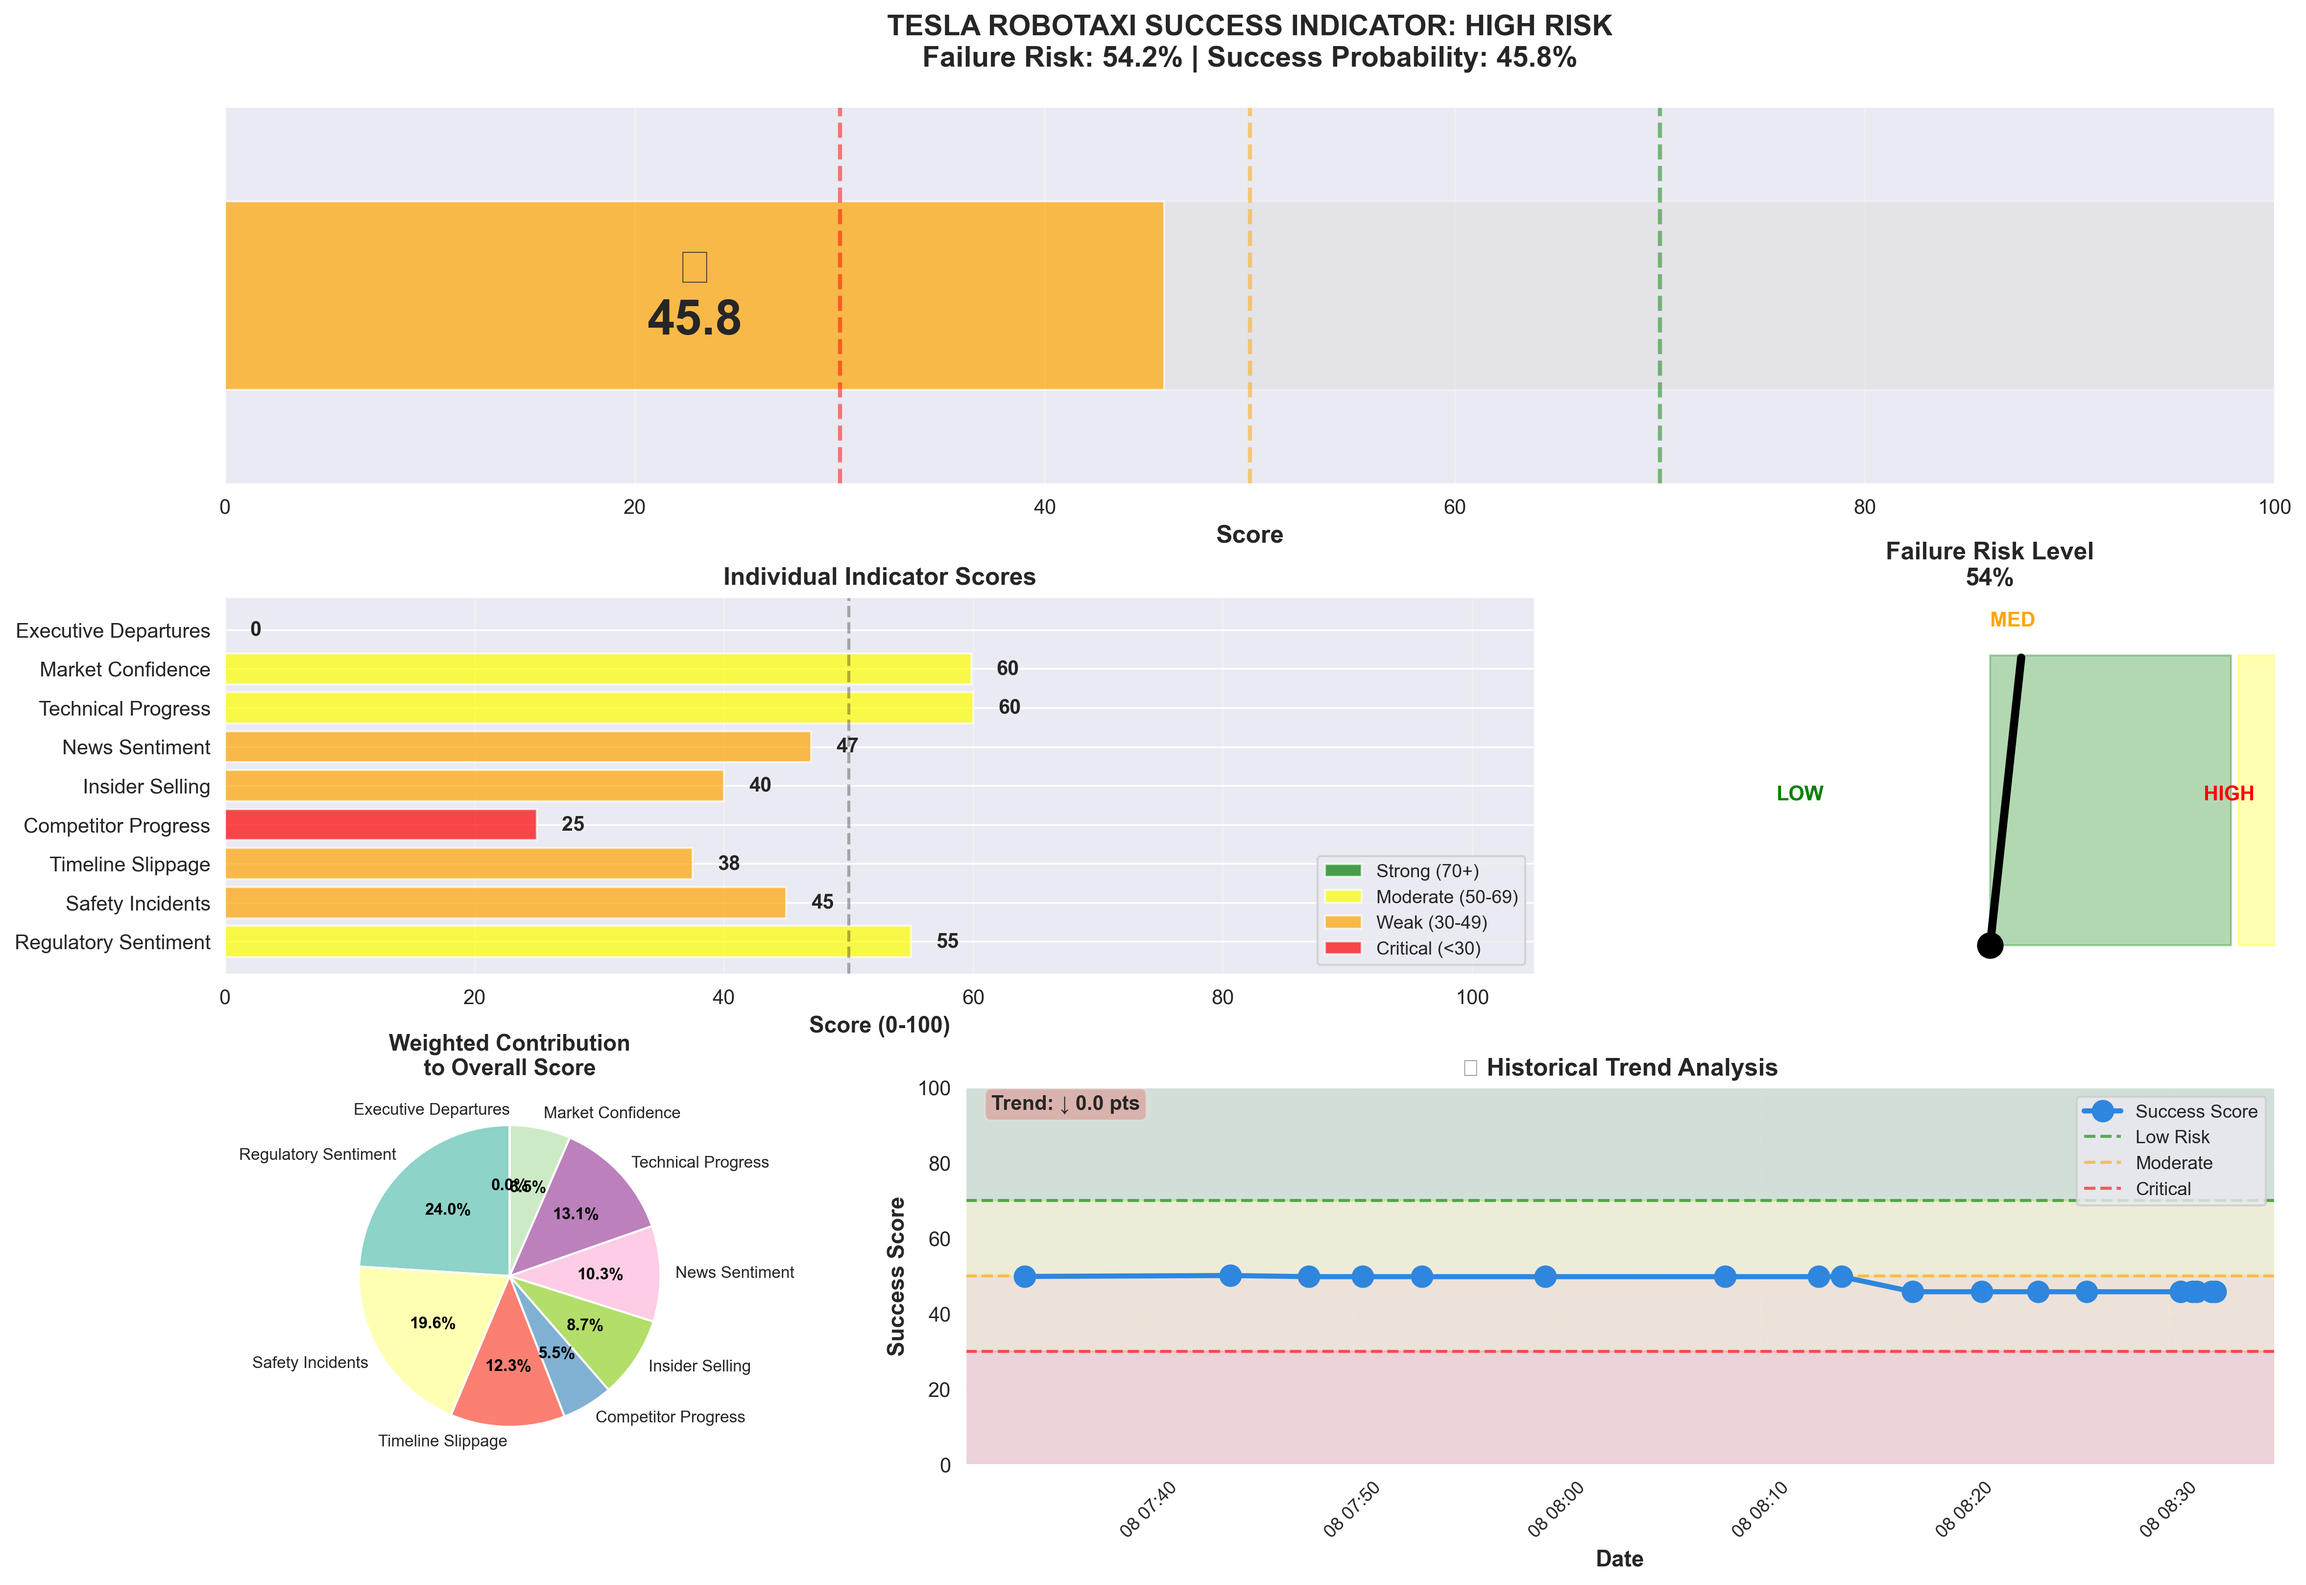
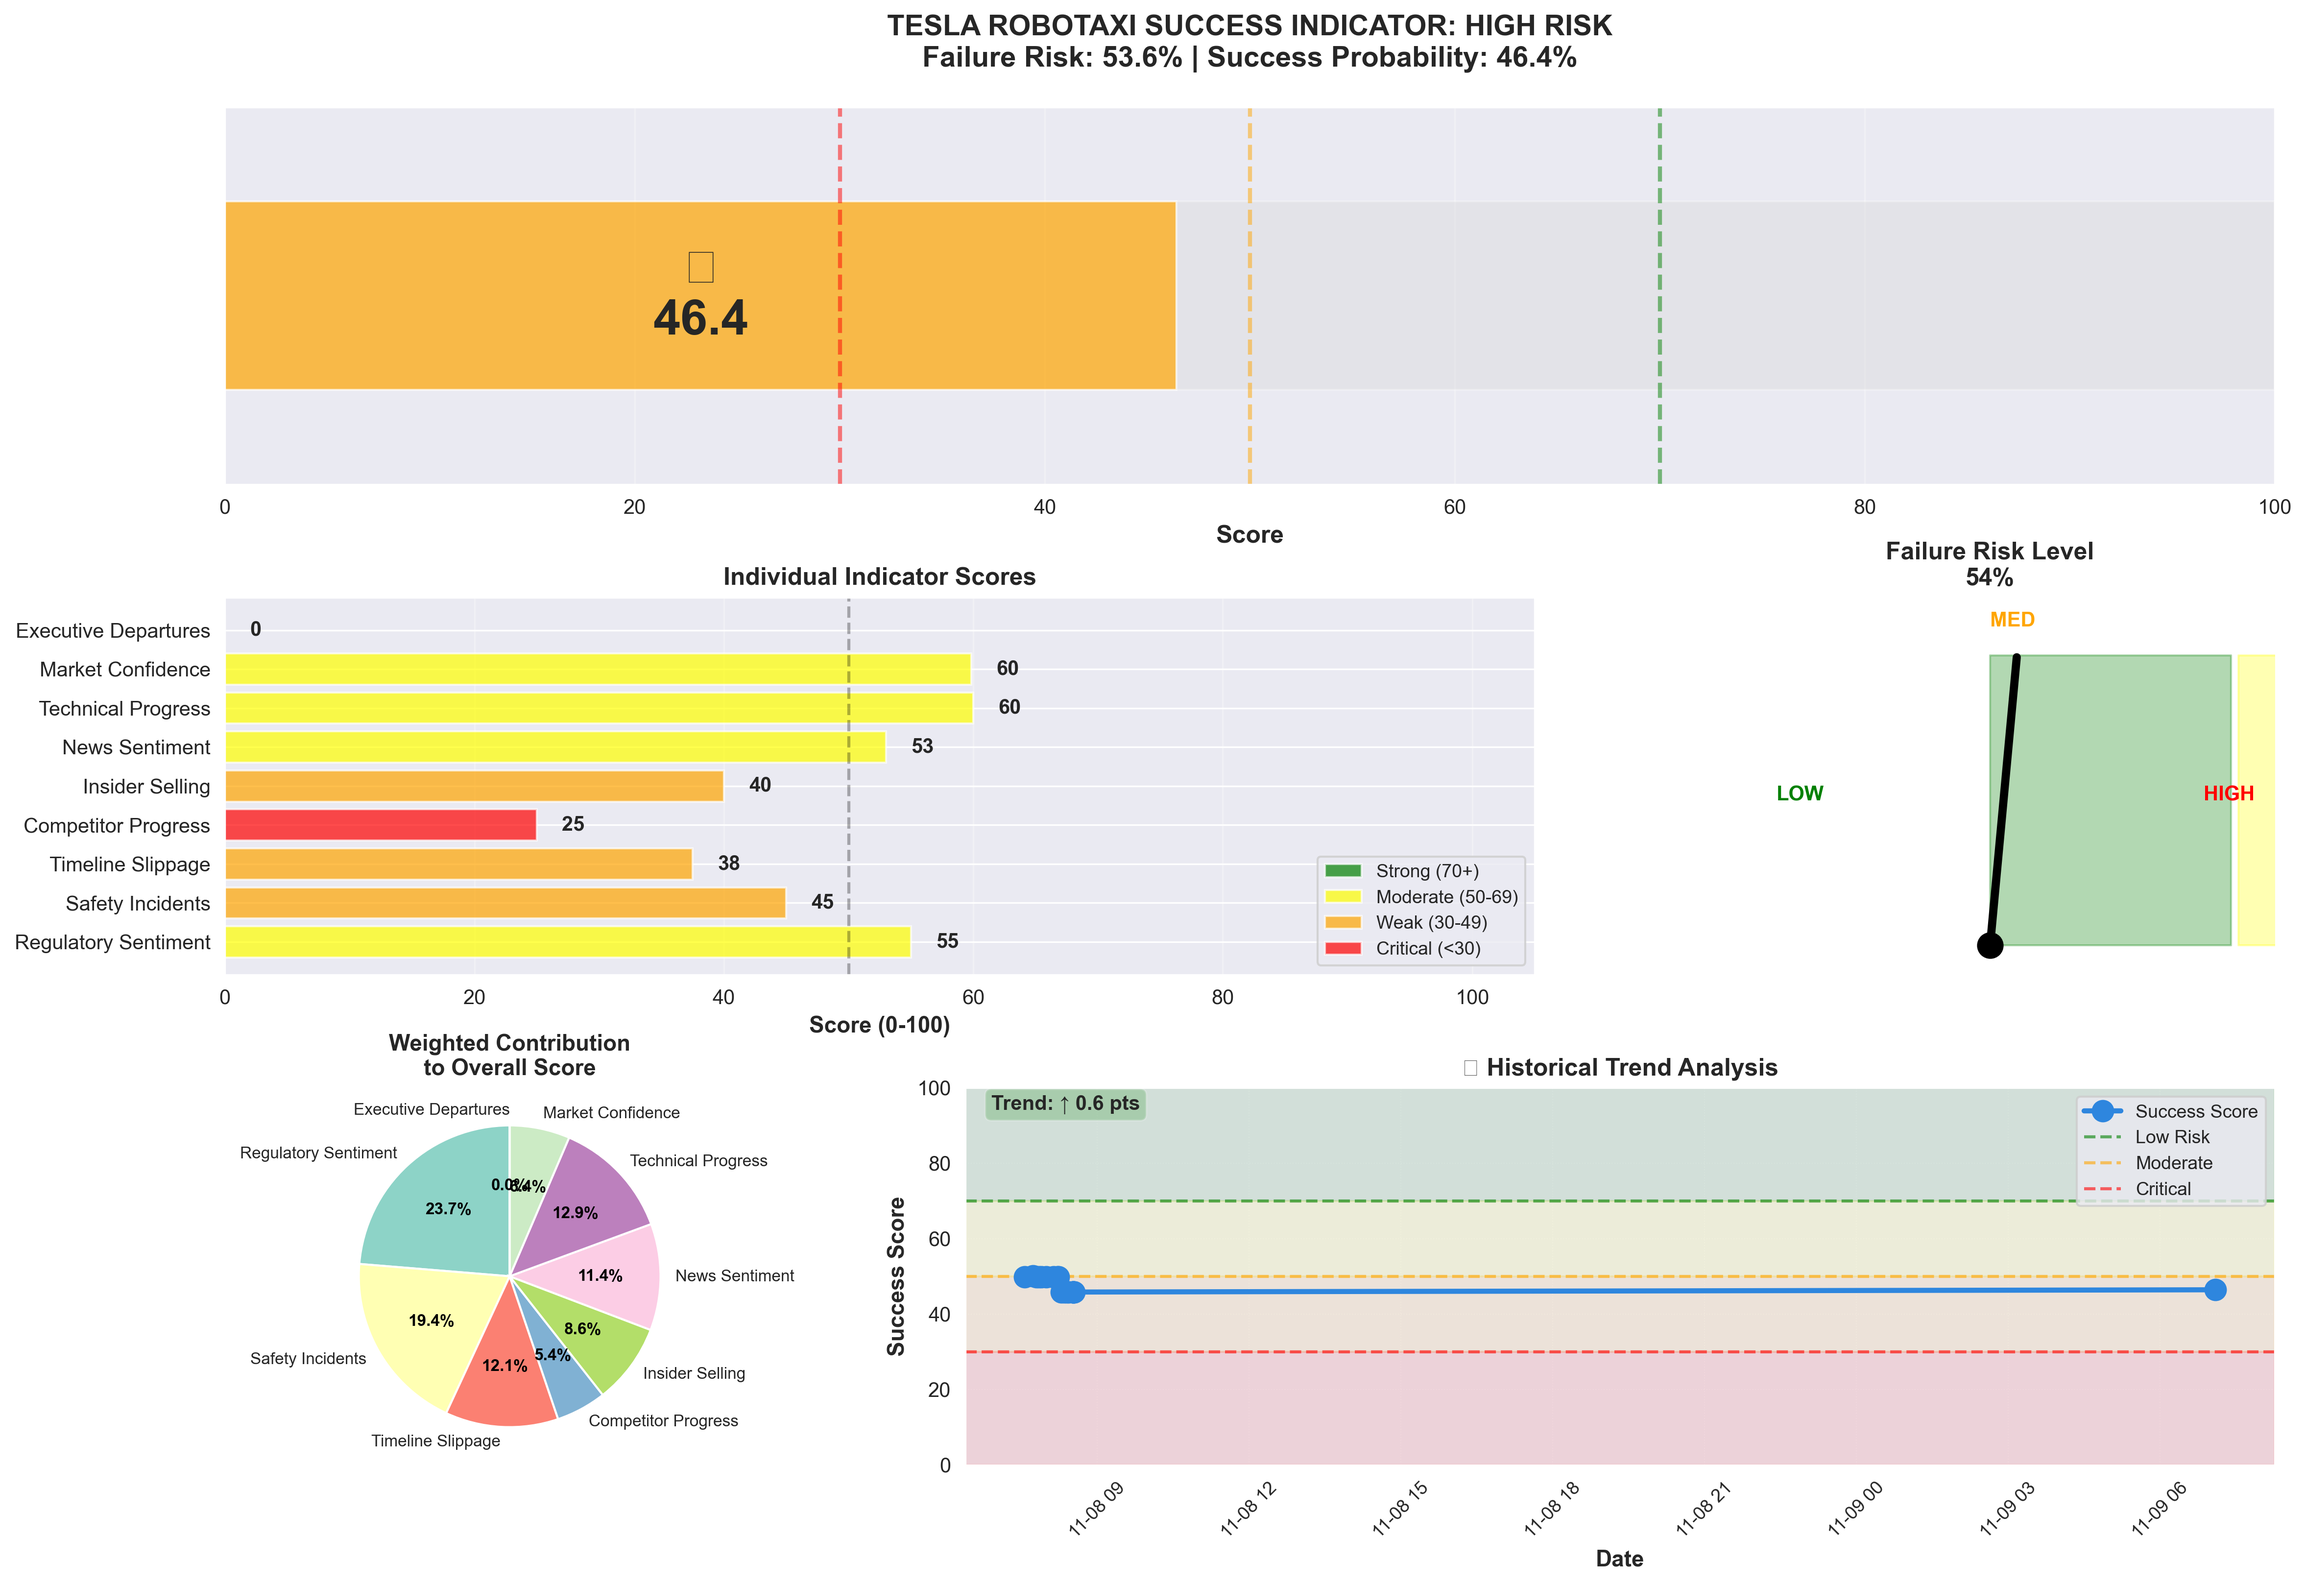
Update monitoring data and README - 2025-11-09 07:05
- Updated monitoring output with latest data
- Refreshed README with current risk scores
- Failure risk: 53.6%
- Dashboard and reports regenerated

[Automated update via update_and_push.py]

diff --git a/output/tesla_robotaxi_dashboard.html b/output/tesla_robotaxi_dashboard.html
@@ -409,14 +409,14 @@
         <div class="header">
             <h1>🚗 Tesla Robotaxi Monitor</h1>
             <div class="subtitle">Risk Assessment Dashboard - Powered by Real-Time Data</div>
-            <div class="timestamp">Generated: 2025-11-08 08:32:16</div>
+            <div class="timestamp">Generated: 2025-11-09 07:05:20</div>
         </div>
         
         <div class="risk-overview">
             <div class="risk-score">
                 <div class="score-item">
                     <div class="label">Success Probability</div>
-                    <div class="value">45.8%</div>
+                    <div class="value">46.4%</div>
                 </div>
                 <div class="score-item">
                     <div class="label">Status</div>
@@ -424,7 +424,7 @@
                 </div>
                 <div class="score-item">
                     <div class="label">Failure Risk</div>
-                    <div class="value">54.2%</div>
+                    <div class="value">53.6%</div>
                 </div>
             </div>
             <div class="recommendation">
@@ -524,7 +524,7 @@
         
         
         NEWS MONITORING (Last 30 days):
-        • Safety/crash article mentions: 3
+        • Safety/crash article mentions: 2
         • Monitoring status: LOW
         
         Score: 45/100 (Below 60 suggests serious problems)
@@ -642,7 +642,7 @@
         • SEC Form 4 filings (last 90 days): 5
         • Activity level: LOW
         • Source: SEC Edgar API
-        • Last check: 2025-11-08T08:32:14.760750
+        • Last check: 2025-11-09T07:05:18.072291
         
         BACKGROUND:
         • Elon Musk: $10B+ in stock sales (reported)
@@ -663,12 +663,12 @@
                         <span class="badge">LIVE DATA</span>
                     </div>
                     <div class="indicator-score">
-                        <span class="score-value">47</span>
+                        <span class="score-value">53</span>
                         <span class="score-max">/100</span>
                         <span class="weight">Weight: 10%</span>
                     </div>
                     <div class="progress-bar">
-                        <div class="progress-fill" style="width: 47.0%; background-color: #ff8c00;"></div>
+                        <div class="progress-fill" style="width: 53.0%; background-color: #ffc107;"></div>
                     </div>
                     <div class="indicator-details">
                         <pre>
@@ -676,15 +676,15 @@
         
         • Total articles analyzed: 100
         • Sentiment: NEUTRAL
-        • Raw sentiment score: -2
+        • Raw sentiment score: 2
         
         Recent headlines:
         
         1. Musk wants to get rid of Tesla’s robotaxi babysitters ‘by the end of the year’
-        2. Tesla is facing an investigation over Full Self-Driving traffic violations
-        3. Nvidia and Uber Say They’re Building a 100,000-Vehicle Robotaxi Network
+        2. Nvidia and Uber Say They’re Building a 100,000-Vehicle Robotaxi Network
+        3. Uber CEO says all cars will be autonomous in 20 years. Driving will be 'something like horseback riding.'
         
-        Sentiment Score: 47/100 (Based on real news data)
+        Sentiment Score: 53/100 (Based on real news data)
         </pre>
                     </div>
                 </div>

diff --git a/README.md b/README.md
@@ -15,26 +15,26 @@ Outputs (saved to `output/` directory):
 - `tesla_robotaxi_report.txt` - Detailed report
 - `tesla_robotaxi_history.json` - Historical tracking data
 
-## Current Assessment: **54.2% Failure Risk** ⚠
+## Current Assessment: **53.6% Failure Risk** ⚠
 
 ### Key Red Flags:
-- **Competitor Progress: 25/100** 🚨 Tesla 5+ years behind (REAL DATA)
+- **Executive Departures: 0.0/100** ⚠
+- **Competitor Progress: 25.0/100** 🚨 Tesla 5+ years behind (REAL DATA)
 - **Timeline Slippage: 37.5/100** 🚨 10 years of missed promises
-- **Safety Incidents: 45/100** 🚨 NHTSA crash data shows 736 Tesla crashes vs 23 Waymo
-- **Insider Selling: 40/100** ⚠ Heavy executive sales (SEC EDGAR TRACKING)
+- **Insider Selling: 40.0/100** ⚠ Heavy executive sales (SEC EDGAR TRACKING)
 
 ## 9 Indicators Tracked
 
 | Indicator | Weight | Current Score |
 |-----------|--------|---------------|
-| Regulatory Sentiment | 20% | 55/100 |
-| Safety Incidents | 20% | 45/100 🚨 |
+| Regulatory Sentiment | 20% | 55.0/100 |
+| Safety Incidents | 20% | 45.0/100 |
 | Timeline Slippage | 15% | 37.5/100 🚨 |
-| Competitor Progress | 10% | 25/100 🚨 |
-| Insider Selling | 10% | 40/100 |
-| News Sentiment | 10% | 47/100 |
-| Technical Progress | 10% | 60/100 |
-| Market Confidence | 5% | 60/100 |
+| Competitor Progress | 10% | 25.0/100 🚨 |
+| Insider Selling | 10% | 40.0/100 |
+| News Sentiment | 10% | 53.0/100 |
+| Technical Progress | 10% | 60.0/100 |
+| Market Confidence | 5% | 59.8/100 |
 | Executive Departures | 0% | Red Flag Indicator |
 
 ## Decision Framework
